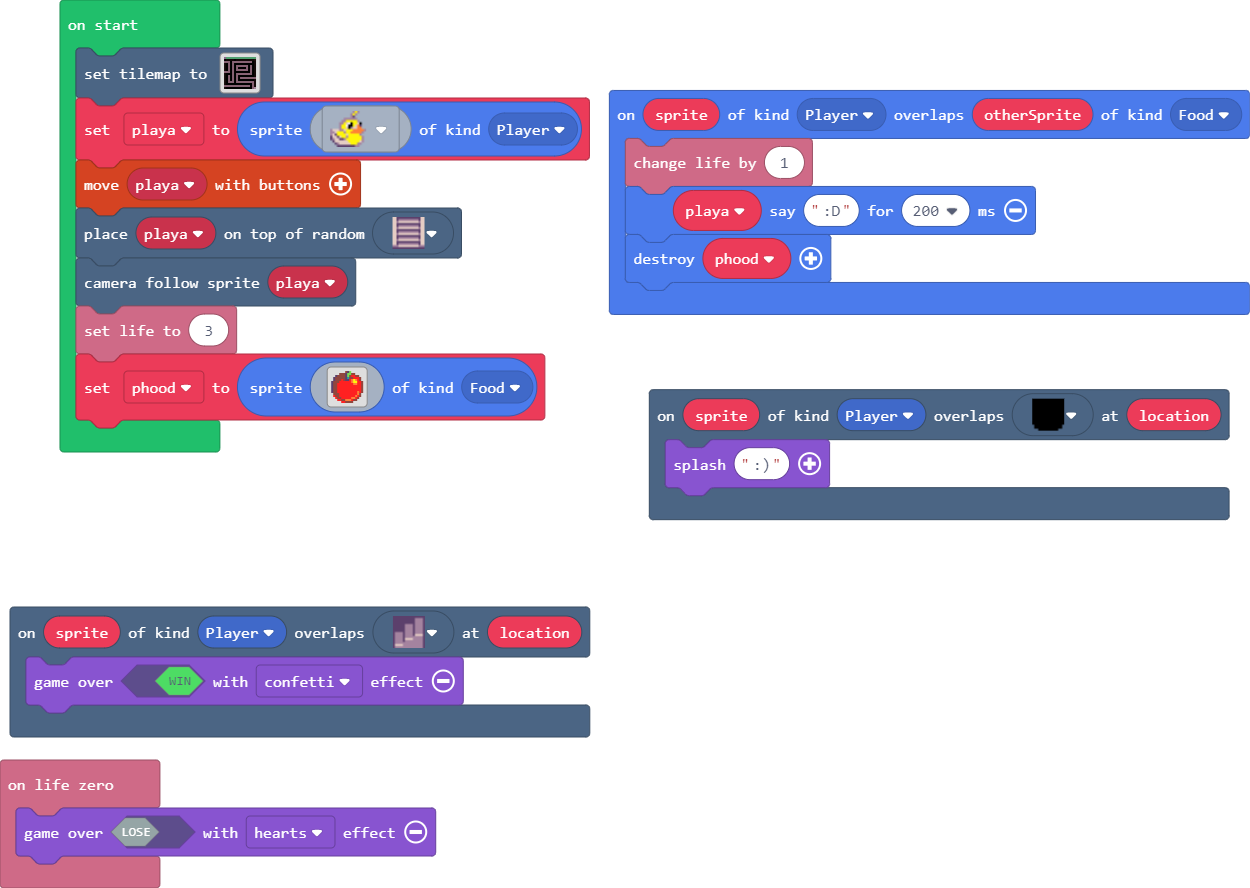
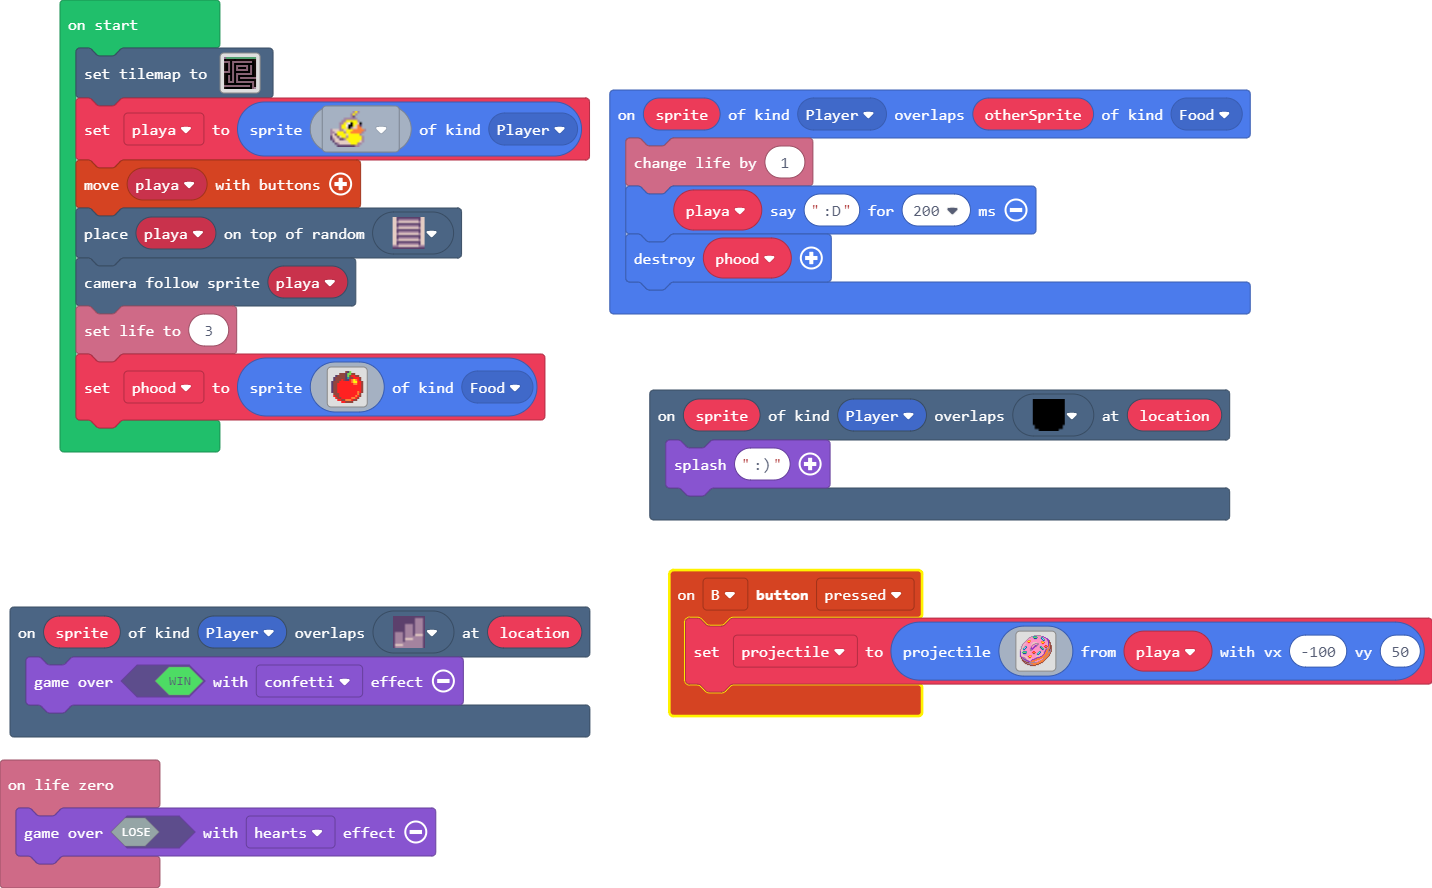
jfgh

diff --git a/main.ts b/main.ts
@@ -22,6 +22,42 @@ namespace myTiles {
 scene.onOverlapTile(SpriteKind.Player, sprites.builtin.forestTiles14, function (sprite, location) {
     game.splash(":)")
 })
+controller.B.onEvent(ControllerButtonEvent.Pressed, function () {
+    projectile = sprites.createProjectileFromSprite(img`
+. . . . . . . . . . . . . . b b b b b b b . . . . . . . . . . . 
+. . . . . . . . . . . b b 6 6 6 6 3 3 3 3 b a a . . . . . . . . 
+. . . . . . . . . b b 3 3 6 7 7 7 6 3 3 3 6 6 3 a a . . . . . . 
+. . . . . . . . b 3 3 3 3 3 8 8 8 3 3 3 3 8 9 6 3 3 a a . . . . 
+. . . . . . . b 3 3 3 3 3 3 3 3 3 3 3 3 3 3 8 9 6 3 3 a a . . . 
+. . . . . . b 3 4 4 4 3 3 3 3 3 3 3 3 3 3 3 3 8 6 3 3 b a e . . 
+. . . . . b 3 4 5 5 4 3 3 3 3 3 3 3 3 3 3 4 4 4 3 3 3 3 a e . . 
+. . . . b 3 3 3 2 2 3 3 3 d d d d 3 3 3 3 4 5 5 2 3 3 d a e e . 
+. . . b 3 d 3 3 3 3 3 3 d d 3 b b b b 3 3 3 2 2 3 3 3 d a b e . 
+. . b 3 d 3 3 3 3 3 3 d 3 b b 3 3 b b 3 3 3 3 3 3 3 3 d a 4 e . 
+. . b d 3 3 3 3 3 3 3 3 b 3 3 a a b 3 3 3 3 3 3 3 2 2 3 a 4 e e 
+. b 3 d 3 6 6 3 3 3 3 b 3 3 a a b 3 3 3 6 6 3 3 2 4 4 2 b 4 e e 
+. b d 3 b 9 8 3 3 3 3 a 3 a a 3 3 3 3 3 8 7 6 3 3 e e 3 b 4 e e 
+. b d 6 9 8 3 3 3 3 b a a a 3 3 3 3 3 3 3 8 7 6 3 3 b b 4 b e e 
+b 3 d 6 8 3 3 3 3 3 b b a 3 3 3 3 3 3 3 3 3 8 6 3 b a 4 4 e b e 
+b d d 3 3 3 3 3 3 3 b b 3 3 3 3 3 3 3 3 3 3 3 3 3 a 4 4 b e b e 
+a d d 6 6 6 6 3 3 3 3 3 3 2 2 3 3 3 3 6 6 3 3 3 b a 4 4 b b b e 
+a d 6 7 7 7 6 3 3 3 3 3 2 4 4 2 3 3 6 9 8 3 d 3 a 4 4 4 b 4 e . 
+a d d 8 8 8 b 3 3 3 3 3 3 e e 3 3 6 9 8 3 3 d 3 a 4 4 b 4 4 e . 
+a d d 3 3 3 3 3 3 3 3 3 3 3 3 3 3 6 8 3 3 d 3 a 4 4 4 b 4 e . . 
+a 3 d d 3 3 3 3 3 4 4 4 3 3 3 3 3 d d d d 3 a 4 4 4 b 4 4 e . . 
+a b 3 3 d d d 3 2 5 5 4 3 3 3 3 d d 3 3 a a 4 4 4 b 4 4 e . . . 
+. e a b b 3 d d 3 2 2 3 3 3 3 3 b a a a 4 4 4 4 b 4 4 e . . . . 
+. e b a b b 3 d 3 3 3 d 3 3 b a a 4 4 4 4 4 3 b 4 4 e . . . . . 
+. . e b a a b 3 d d d 3 a a a 4 4 4 4 4 3 3 b 4 4 e . . . . . . 
+. . e e b b a a b 3 3 a 4 4 4 4 4 3 3 3 b 4 4 4 e . . . . . . . 
+. . . e e e b b a a b 4 4 4 b 3 3 3 b 4 4 4 4 e . . . . . . . . 
+. . . . e b e e e b b b b b b b b 4 4 4 4 e e . . . . . . . . . 
+. . . . . e e b b b b 4 4 4 4 4 4 4 4 e e . . . . . . . . . . . 
+. . . . . . . e e e b b b 4 4 4 e e e . . . . . . . . . . . . . 
+. . . . . . . . . . e e e e e e . . . . . . . . . . . . . . . . 
+. . . . . . . . . . . . . . . . . . . . . . . . . . . . . . . . 
+`, playa, -100, 50)
+})
 sprites.onOverlap(SpriteKind.Player, SpriteKind.Food, function (sprite, otherSprite) {
     info.changeLifeBy(1)
     playa.say(":D", 200)
@@ -33,6 +69,7 @@ scene.onOverlapTile(SpriteKind.Player, sprites.dungeon.stairLarge, function (spr
 info.onLifeZero(function () {
     game.over(false, effects.hearts)
 })
+let projectile: Sprite = null
 let phood: Sprite = null
 let playa: Sprite = null
 tiles.setTilemap(tiles.createTilemap(
